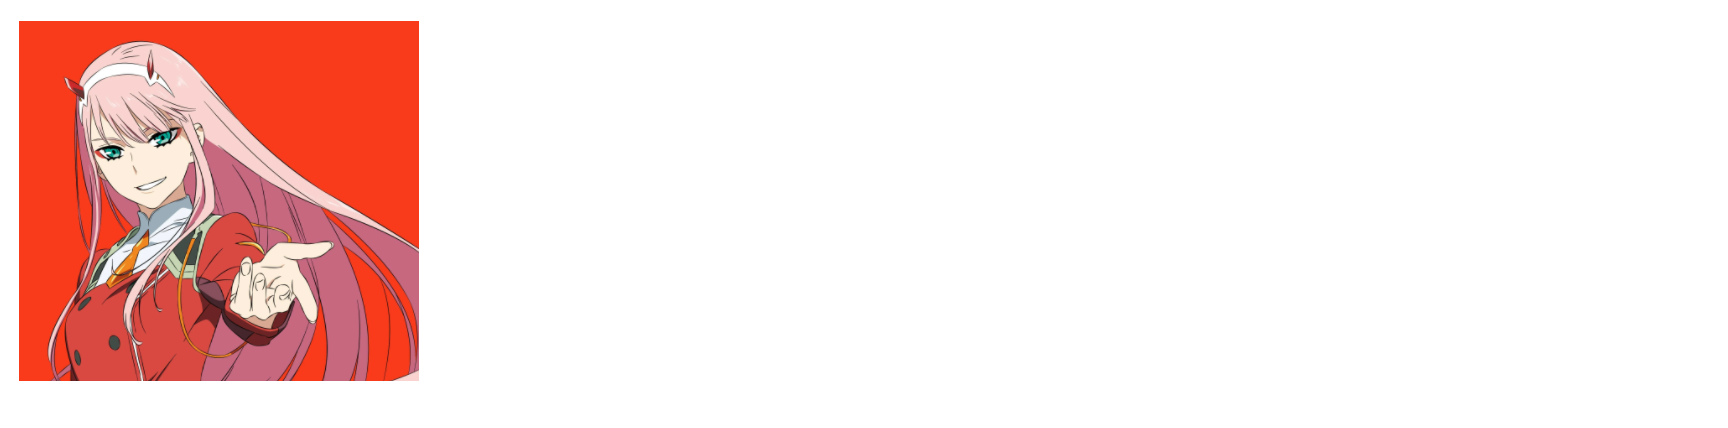
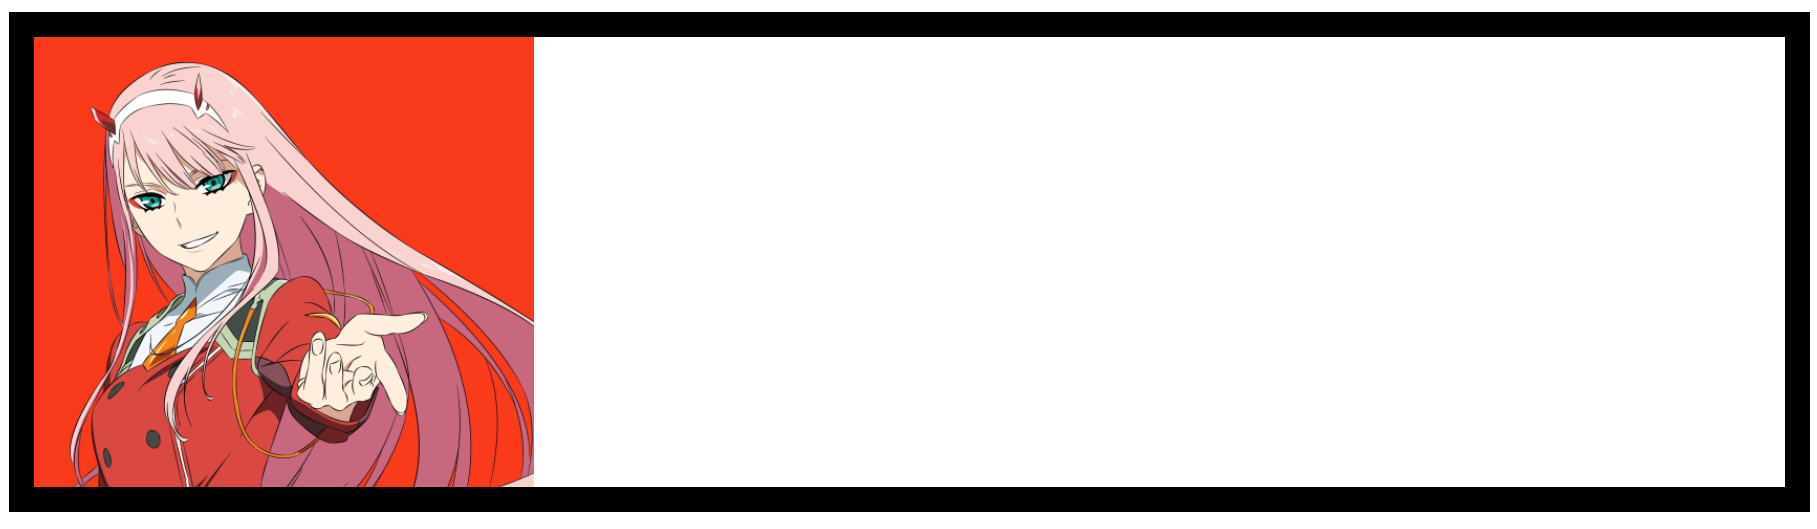
update full background

Changed region(s): [[0.0, 0.0, 1.0, 0.972]]

diff --git a/style.css b/style.css
@@ -2,9 +2,9 @@ div {
   width: 100%;
   height: 100vh;
   padding: 20px;
-  border: 10px solid #fff;
+  border: 10px solid #000;
   box-sizing: border-box;
-  background-image: url(https://wallpaperaccess.com/full/4582655.jpg);
-  background-repeat: no-repeat;
-  background-size: contain;
+  background: url(https://wallpaperaccess.com/full/4582655.jpg) no-repeat center;
+  background-color: aquamarine;
+  background-size: 200px;
 }

diff --git a/index.html b/index.html
@@ -6,7 +6,7 @@
   </head>
 
   <body>
-    <div></div>
+    <div class="box"></div>
   </body>
 
   <script src="main.js"></script>

diff --git a/HTML & CSS/CSS/css_backgrounds.md b/HTML & CSS/CSS/css_backgrounds.md
@@ -37,6 +37,8 @@ div {
 }
 ```
 
+Thuộc tính `background-clip` có giá trị mặc định là `border-box`.
+
 **Kết quả**:
 
 <img src = "bg2.png">
@@ -52,7 +54,7 @@ div {
   width: 100%;
   height: 200px;
   padding: 20px;
-  border: 10px solid #fff;
+  border: 10px solid #000;
   box-sizing: border-box;
   background-image: url(https://wallpaperaccess.com/full/4582655.jpg);
 }
@@ -69,7 +71,7 @@ div {
   width: 100%;
   height: 200px;
   padding: 20px;
-  border: 10px solid #fff;
+  border: 10px solid #000;
   box-sizing: border-box;
   background-image: url(https://wallpaperaccess.com/full/4582655.jpg);
   background-size: 200px;
@@ -80,6 +82,10 @@ div {
 
 <img src = "bg4.png">
 
+> `background-size` ở đây là kích thước của background so với ranh giới chứa nó, 100% tức là background sẽ fill hết padding.
+
+<img src="bg11.png">
+
 Để hình ảnh không lặp lại, sử dụng thuộc tính `background-repeat`.
 
 ```css
@@ -87,7 +93,7 @@ div {
   width: 100%;
   height: 200px;
   padding: 20px;
-  border: 10px solid #fff;
+  border: 10px solid #000;
   box-sizing: border-box;
   background-image: url(https://wallpaperaccess.com/full/4582655.jpg);
   background-size: 200px;
@@ -107,11 +113,12 @@ div {
   width: 100%;
   height: 100vh;
   padding: 20px;
-  border: 10px solid #fff;
+  border: 10px solid #000;
   box-sizing: border-box;
   background-image: url(https://i.pinimg.com/474x/1f/7a/da/1f7ada5160909a90ac3bb6e63a6fbfa5.jpg),
     url(https://wallpaperaccess.com/full/4582655.jpg);
-  background-repeat: no-repeat;
+  background-repeat: no-repeat, no-repeat;
+  background-size: 200px, 100%;
 }
 ```
 
@@ -121,16 +128,16 @@ div {
 
 # Size
 
-Ngoài các giá trị số thì thuộc tính `background-size` còn các giá trị dạng keyword. Chẳng hạn keyword `contain`. Keyword này sẽ chọn chiều ngang hoặc dọc của hình ảnh và gán giá trị là 100% chiều ngang hoặc dọc của cửa sổ. Sao cho hình ảnh không bị che khuất.
+Ngoài các giá trị số thì thuộc tính `background-size` còn các giá trị dạng keyword. Chẳng hạn keyword `contain`. Keyword này sẽ chọn chiều ngang hoặc dọc của hình ảnh và gán giá trị là 100% chiều ngang hoặc dọc của ranh giới chứa nó, sao cho hình ảnh không bị che khuất.
 
-Nói một cách dễ hiểu, nếu width = 100vw mà hình ảnh bị che khuất một phần, thì nó sẽ canh theo chiều dọc. Tức là cho height = 100vh.
+Nói một cách dễ hiểu, nếu `width = 100%` mà hình ảnh bị che khuất một phần, thì nó sẽ canh theo chiều dọc. Tức là cho `height = 100%`.
 
 ```css
 div {
   width: 100%;
   height: 100vh;
   padding: 20px;
-  border: 10px solid #fff;
+  border: 10px solid #000;
   box-sizing: border-box;
   background-image: url(https://wallpaperaccess.com/full/4582655.jpg);
   background-repeat: no-repeat;
@@ -140,6 +147,8 @@ div {
 
 <img src="bg6.png">
 
+> Có thể thấy, nếu phóng to hình ảnh sao cho chiều ngang chạm đến border, thì chiều dọc sẽ bị che khuất, nên nó cho chiều dọc có kích thước 100% của ranh giới chứa nó (padding trở vào).
+
 Còn có từ khóa `cover` tương tự `contain`, tuy nhiên nó sẽ chấp nhận luôn việc hình ảnh bị che khuất.
 
 ```css
@@ -147,7 +156,7 @@ div {
   width: 100%;
   height: 100vh;
   padding: 20px;
-  border: 10px solid #fff;
+  border: 10px solid #000;
   box-sizing: border-box;
   background-image: url(https://wallpaperaccess.com/full/4582655.jpg);
   background-repeat: no-repeat;
@@ -156,3 +165,122 @@ div {
 ```
 
 <img src="bg7.png">
+
+> Mặc dù chiều ngang là 100% của ranh giới chứa nó, nhưng chiều dọc lại bị mất.
+
+# Origin
+
+Tương tự thuộc tính `background-clip` đối với `background-color`, thuộc tính `background-origin` quyết định ranh giới của hình ảnh. Thuộc tính `background-origin` có giá trị mặc định là `padding-box`.
+
+```css
+div {
+  width: 100%;
+  height: 100vh;
+  padding: 20px;
+  border: 10px dashed #000;
+  box-sizing: border-box;
+  background-image: url(https://wallpaperaccess.com/full/4582655.jpg);
+  background-size: 100%;
+  background-repeat: no-repeat;
+  background-origin: padding-box;
+}
+```
+
+**Kết quả**:
+
+<img src="bg9.png">
+
+```css
+div {
+  width: 100%;
+  height: 100vh;
+  padding: 20px;
+  border: 10px dashed #000;
+  box-sizing: border-box;
+  background-image: url(https://wallpaperaccess.com/full/4582655.jpg);
+  background-size: 100%;
+  background-repeat: no-repeat;
+  background-origin: border-box;
+}
+```
+
+<img src="bg10.png">
+
+# Position
+
+Để thiết lập ví trí ảnh nền thì dùng thuộc tính `background-position`.
+
+```css
+div {
+  width: 100%;
+  height: 100vh;
+  padding: 20px;
+  border: 10px solid #000;
+  box-sizing: border-box;
+  background-image: url(https://wallpaperaccess.com/full/4582655.jpg);
+  background-size: 200px;
+  background-repeat: no-repeat;
+  background-position: 20% 40%;
+}
+```
+
+Giá trị số đầu tiên là offset tính từ viền trái, kế tiếp là offest tính từ viền phải.
+
+<img src="bg12.png">
+
+Cũng có thể sử dụng các keyword, chẳng hạn `center, top left, top right, bottom left và bottom right`.
+
+```css
+div {
+  width: 100%;
+  height: 100vh;
+  padding: 20px;
+  border: 10px solid #000;
+  box-sizing: border-box;
+  background-image: url(https://wallpaperaccess.com/full/4582655.jpg);
+  background-size: 200px;
+  background-repeat: no-repeat;
+  background-position: center;
+}
+```
+
+<img src="bg13.png">
+
+Thậm chí còn có thể custom offset kết hợp với keyword, giá trị offset có thể là số âm.
+
+```css
+div {
+  width: 100%;
+  height: 100vh;
+  padding: 20px;
+  border: 10px solid #000;
+  box-sizing: border-box;
+  background-image: url(https://wallpaperaccess.com/full/4582655.jpg);
+  background-size: 200px;
+  background-repeat: no-repeat;
+  background-position: top -50px right 40px;
+}
+```
+
+<img src="bg14.png">
+
+Đoạn code trên có nghĩa: dịch hình ảnh lên trên 50px, lùi hình ảnh từ viền phải vào 40px.
+
+# Shorthand
+
+Các thuộc tính của background có thể gom lại chung một thuộc tính `background`, theo thứ tự là **url**, **reapeat**, **position** và **size**. Nhưng chúng ta nên tách biệt **size** ra để khỏi bị rối. Đồng thời luôn declare color sau background để style này được apply mà ko bị background đè lên. Minh họa cho dạng rút gọn là:
+
+```css
+div {
+  width: 100%;
+  height: 100vh;
+  padding: 20px;
+  border: 10px solid #000;
+  box-sizing: border-box;
+  background: url(https://wallpaperaccess.com/full/4582655.jpg) no-repeat center;
+  background-color: aquamarine;
+  background-size: 200px;
+}
+```
+
+<img src="bg15.png">
